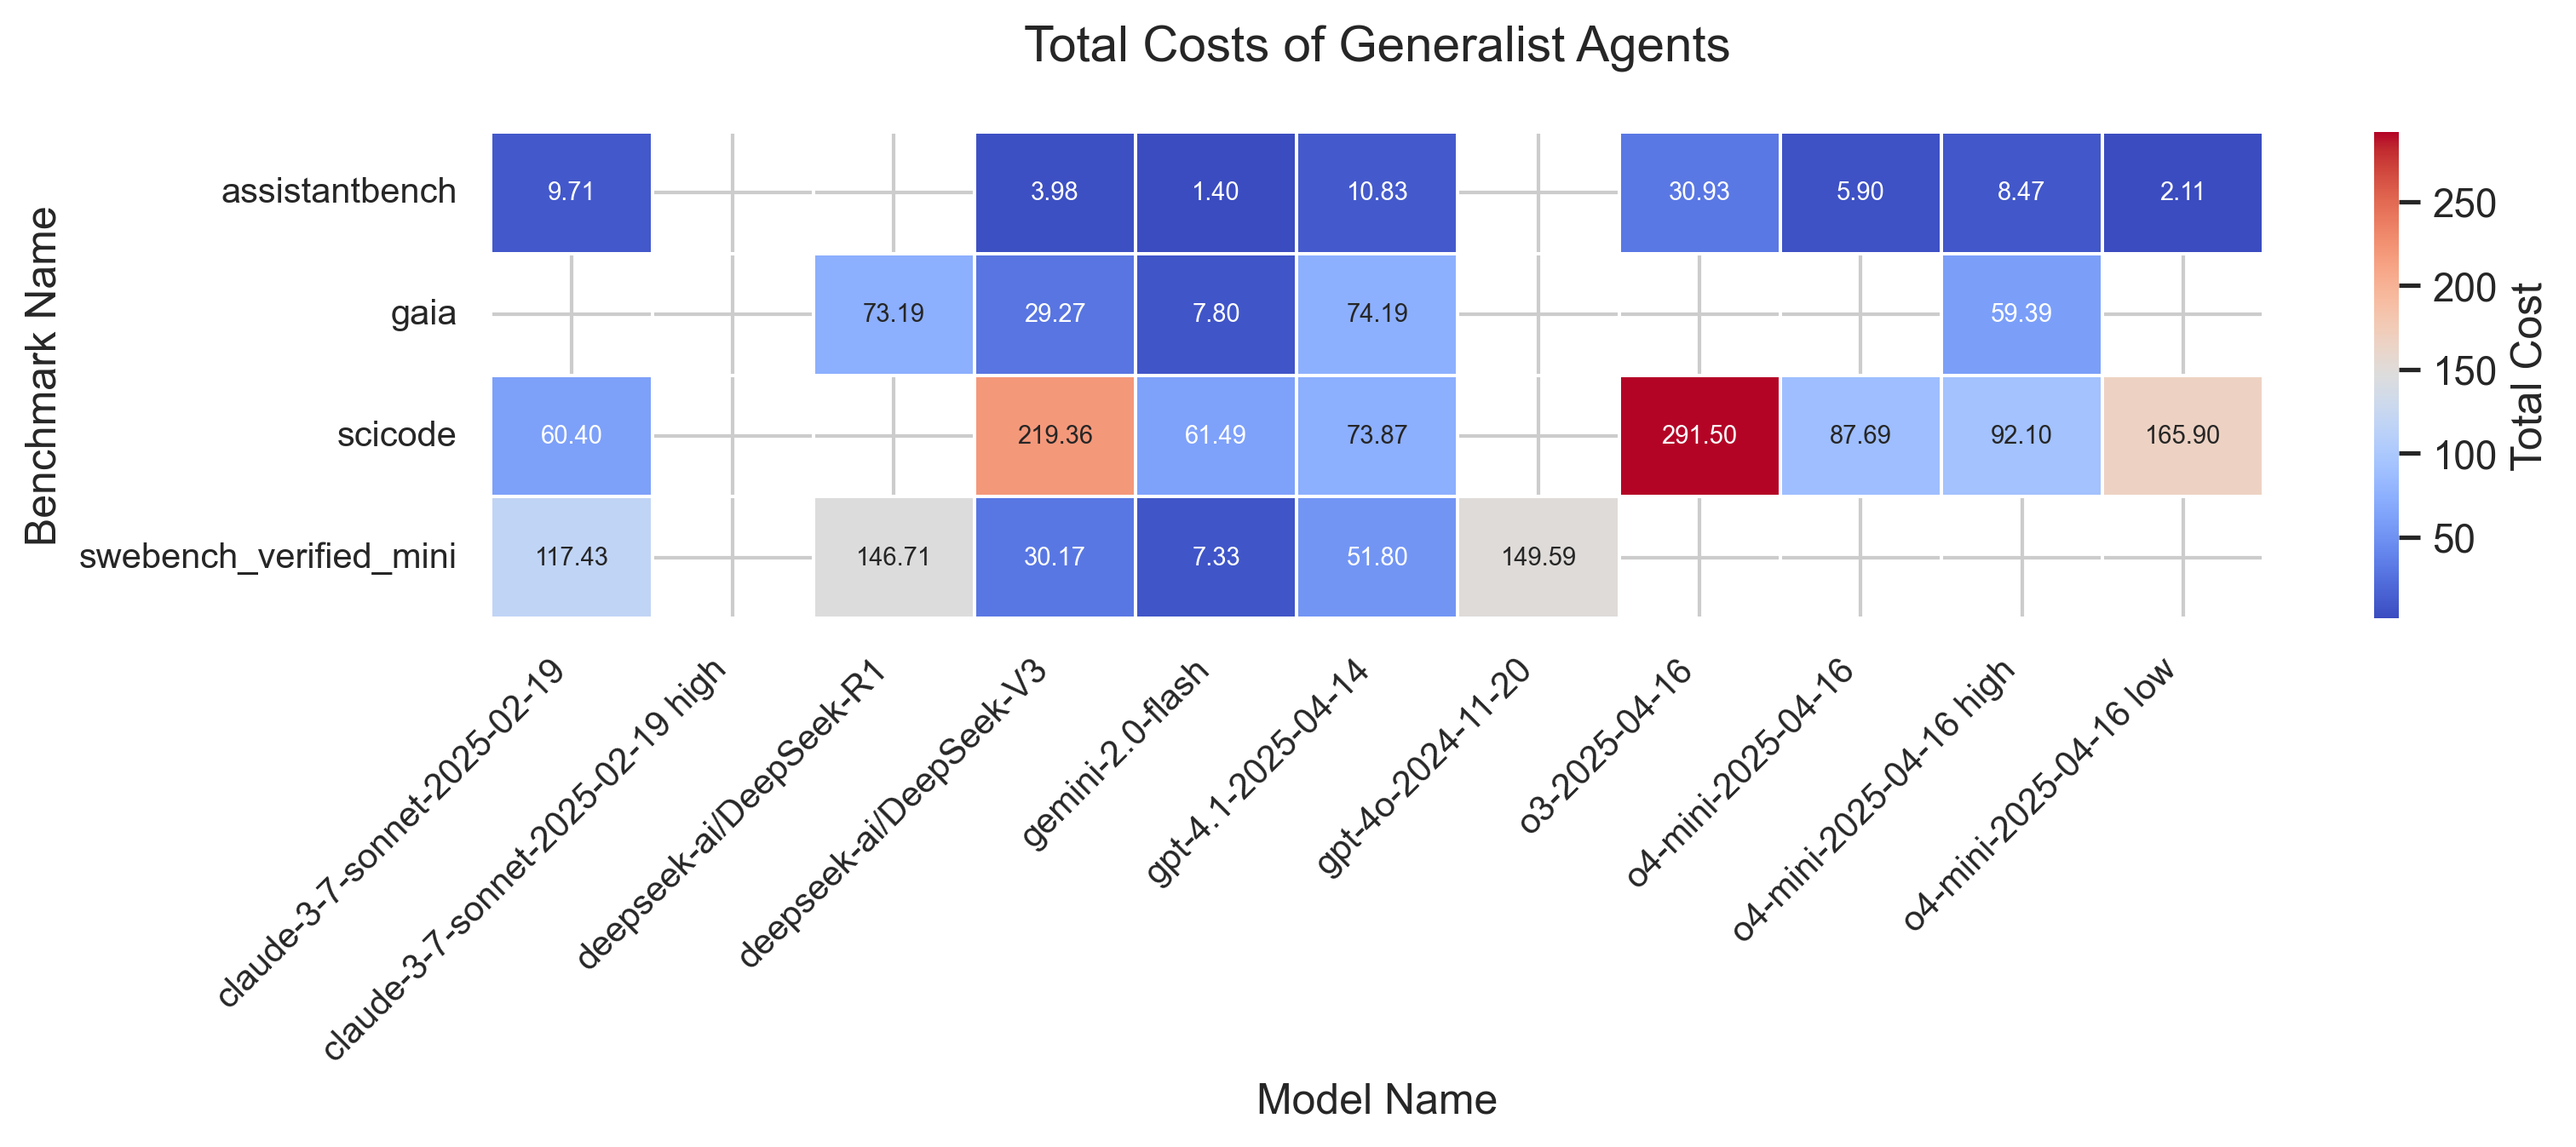
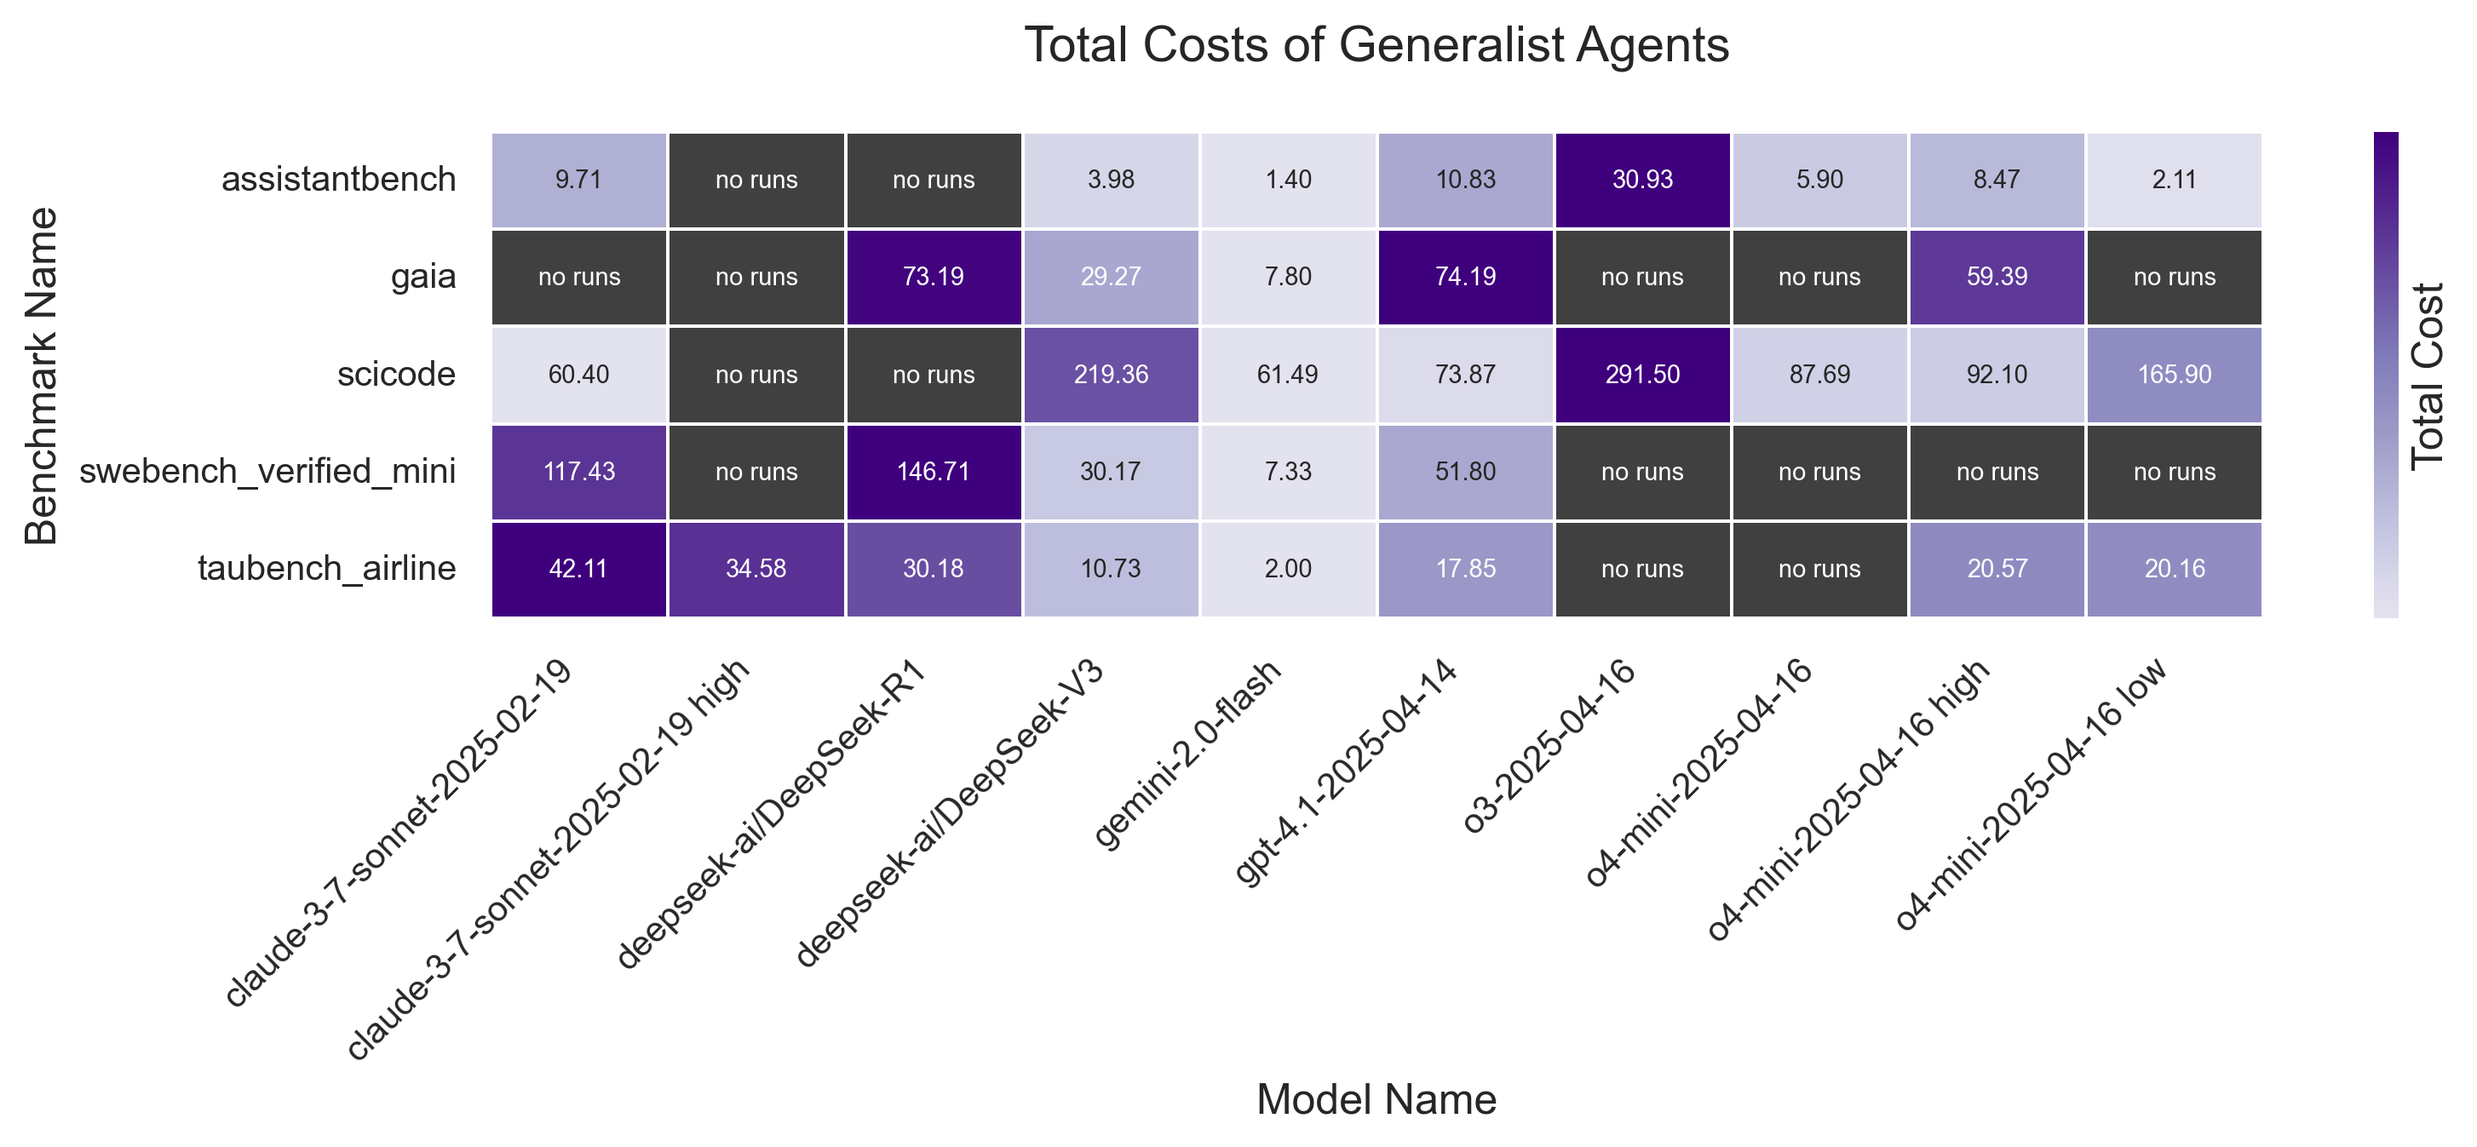
updating visualizations based on feedback

diff --git a/visualizations.py b/visualizations.py
@@ -3,7 +3,7 @@ import seaborn as sns
 import matplotlib.pyplot as plt
 from tabulate import tabulate
 import numpy as np
-from matplotlib.colors import LinearSegmentedColormap
+from matplotlib.colors import LinearSegmentedColormap, ListedColormap, Normalize
 import matplotlib as mpl
 from matplotlib import rcParams
 import ast
@@ -125,35 +125,48 @@ def create_heatmaps(df, agent_scaffold, metric, title, x_label, y_label, legend_
         print("Error: scaffold type not found")
         return
     
-    duplicates = df[df.duplicated(subset=['benchmark_name', 'model_name_short'], keep=False)]
-   # print(duplicates)
+    # duplicates = df[df.duplicated(subset=['benchmark_name', 'model_name_short'], keep=False)]
+    # print(duplicates)
     
     df_pivot = df.pivot_table(columns='model_name_short', index='benchmark_name', values=metric, aggfunc='mean')
-    
-    # Calculate averages
-    df_pivot['Average'] = df_pivot.mean(axis=1)  # Average for each benchmark (row)
-    col_avg = df_pivot.drop(columns=['Average']).mean(axis=0)
+
+    # normalize by row for color gradient
+    norm = df_pivot.sub(df_pivot.min(axis=1), axis=0)
+    norm = norm.div(df_pivot.max(axis=1) - df_pivot.min(axis=1), axis=0)
     
     # Create a custom colormap
-    cmap = sns.color_palette("coolwarm", as_cmap=True)
-    
+    base_cmap = plt.colormaps.get_cmap('Purples')
+    colors = base_cmap(np.linspace(0,1,256))
+    colors = colors[50:]
+    custom_purples =LinearSegmentedColormap.from_list("custom_purples", colors)
+    custom_purples.set_bad(color='#404040')
+
+    # Create greyed out boxes for NaN values
+    # annot = df_pivot.copy()
+    # annot = annot.map(lambda x: "no runs" if pd.isna(x) else f"{x:.2f}")
+
     # Create the figure with appropriate size (only create one figure)
-    plt.figure(figsize=(11, 5))
     
+    fig, ax = plt.subplots(figsize=(11, 5))
+
     # Create the main heatmap 
-    main_data = df_pivot.iloc[:-1, :-1]
-    ax = sns.heatmap(
-        data=main_data,
-        annot=True,
+    sns.heatmap(
+        data=norm,
+        annot=df_pivot,
         annot_kws={"fontsize":7},
         fmt='.2f',
-        cmap=cmap,
+        cmap=custom_purples,
         linewidths=0.5,
         linecolor='white',
-        cbar_kws={'label': legend_name}
+        cbar_kws={'label': legend_name, 'orientation': 'vertical', 'ticks':[]},
     )
     
     plt.tight_layout()
+
+    for i in range(norm.shape[0]):
+        for j in range(norm.shape[1]):
+            if pd.isna(df_pivot.iloc[i,j]):
+                ax.text(j+0.5, i+0.5, 'no runs', ha='center', va='center', color='white', fontsize=7)
     
     # Customize the appearance
     plt.title(title, fontsize=14, pad=20)
@@ -187,12 +200,12 @@ cleaned_dataset['latencies_per_task'] = cleaned_dataset['latencies_per_task'].ap
 cleaned_dataset['mean_latency'] = cleaned_dataset['latencies_per_task'].apply(lambda x: np.mean(x) if x else np.nan)
 
 
-model_win_rate_bar(model_win_rates_max, 'max')
-model_win_rate_bar(model_win_rates_pareto, 'pareto')
+# model_win_rate_bar(model_win_rates_max, 'max')
+# model_win_rate_bar(model_win_rates_pareto, 'pareto')
 
-# create_heatmaps(cleaned_dataset, 'generalist', 'total_cost', 'Total Costs of Generalist Agents', 'Model Name', 'Benchmark Name', 'Total Cost')
-# create_heatmaps(cleaned_dataset, 'generalist', 'accuracy', 'Accuracy of Generalist Agents', 'Model Name', 'Benchmark Name', 'Accuracy')
-# create_heatmaps(cleaned_dataset, 'task_specific', 'accuracy', 'Accuracy of Task Specific Agents', 'Model Name', 'Benchmark Name', 'Accuracy')
-# create_heatmaps(cleaned_dataset, 'task_specific', 'total_cost', 'Total Costs of Task Specific Agents', 'Model Name', 'Benchmark Name', 'Total Cost')
-# create_heatmaps(cleaned_dataset, 'generalist', 'mean_latency', 'Mean Latencies of Generalist Agents', 'Model Name', 'Benchmark Name', 'Mean Latency')
-# create_heatmaps(cleaned_dataset, 'task_specific', 'mean_latency', 'Mean Latencies of Task Specific Agents', 'Model Name', 'Benchmark Name', 'Mean Latency')
+create_heatmaps(cleaned_dataset, 'generalist', 'total_cost', 'Total Costs of Generalist Agents', 'Model Name', 'Benchmark Name', 'Total Cost')
+create_heatmaps(cleaned_dataset, 'generalist', 'accuracy', 'Accuracy of Generalist Agents', 'Model Name', 'Benchmark Name', 'Accuracy')
+create_heatmaps(cleaned_dataset, 'task_specific', 'accuracy', 'Accuracy of Task Specific Agents', 'Model Name', 'Benchmark Name', 'Accuracy')
+create_heatmaps(cleaned_dataset, 'task_specific', 'total_cost', 'Total Costs of Task Specific Agents', 'Model Name', 'Benchmark Name', 'Total Cost')
+create_heatmaps(cleaned_dataset, 'generalist', 'mean_latency', 'Mean Latencies of Generalist Agents', 'Model Name', 'Benchmark Name', 'Mean Latency')
+create_heatmaps(cleaned_dataset, 'task_specific', 'mean_latency', 'Mean Latencies of Task Specific Agents', 'Model Name', 'Benchmark Name', 'Mean Latency')
